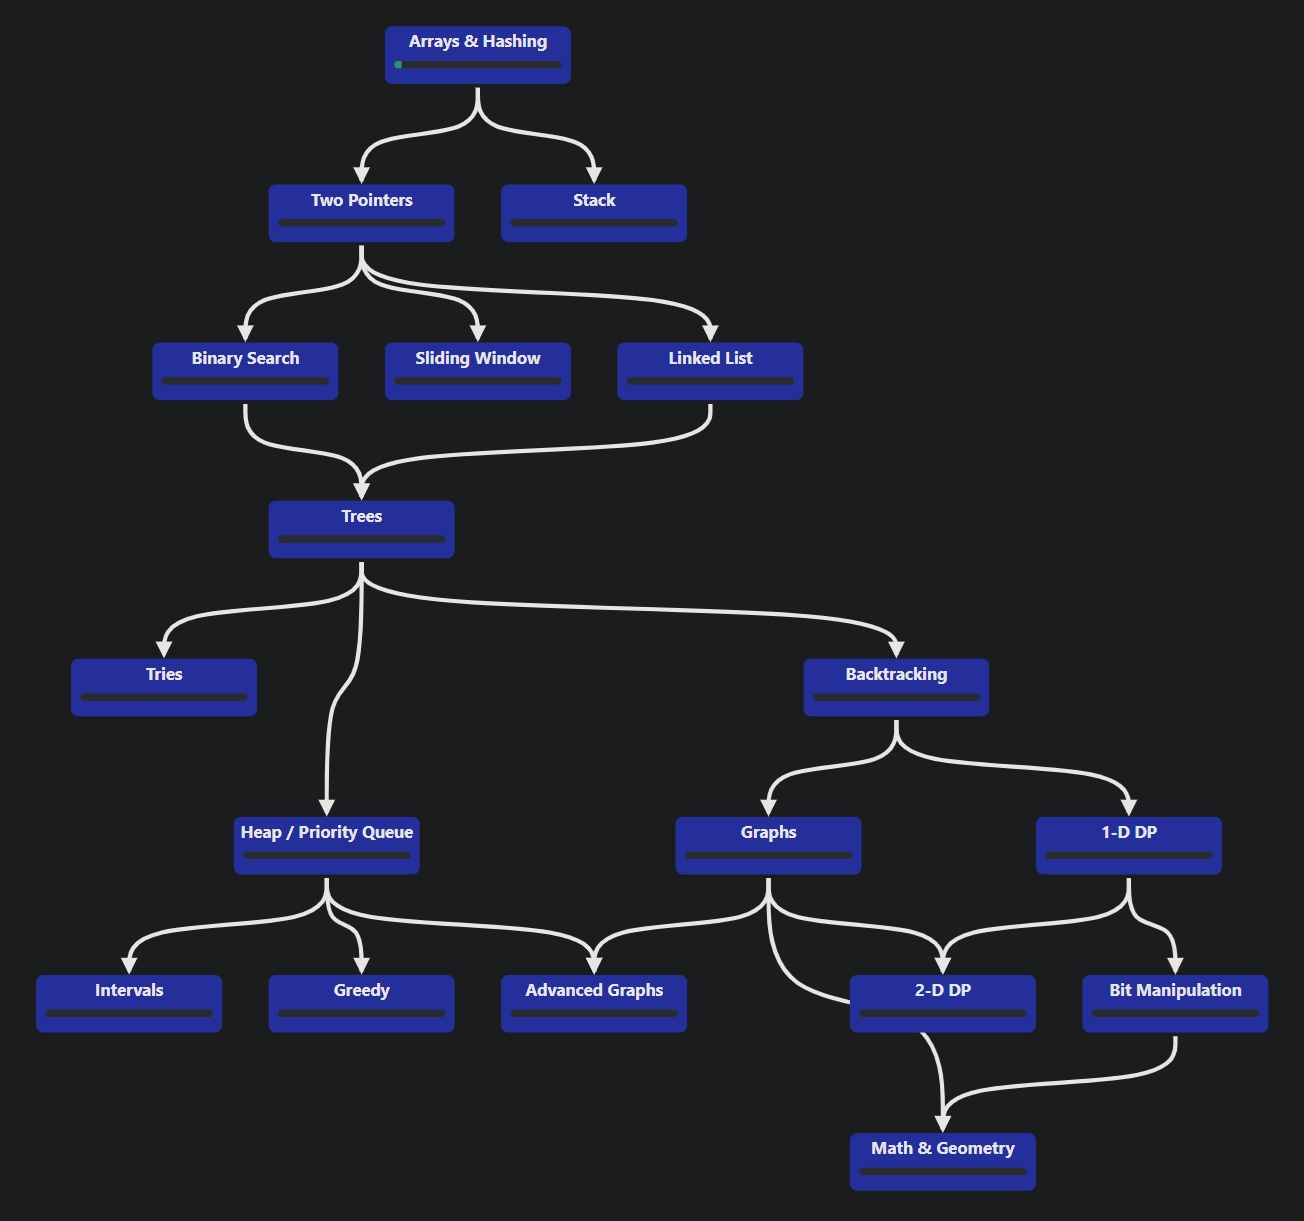
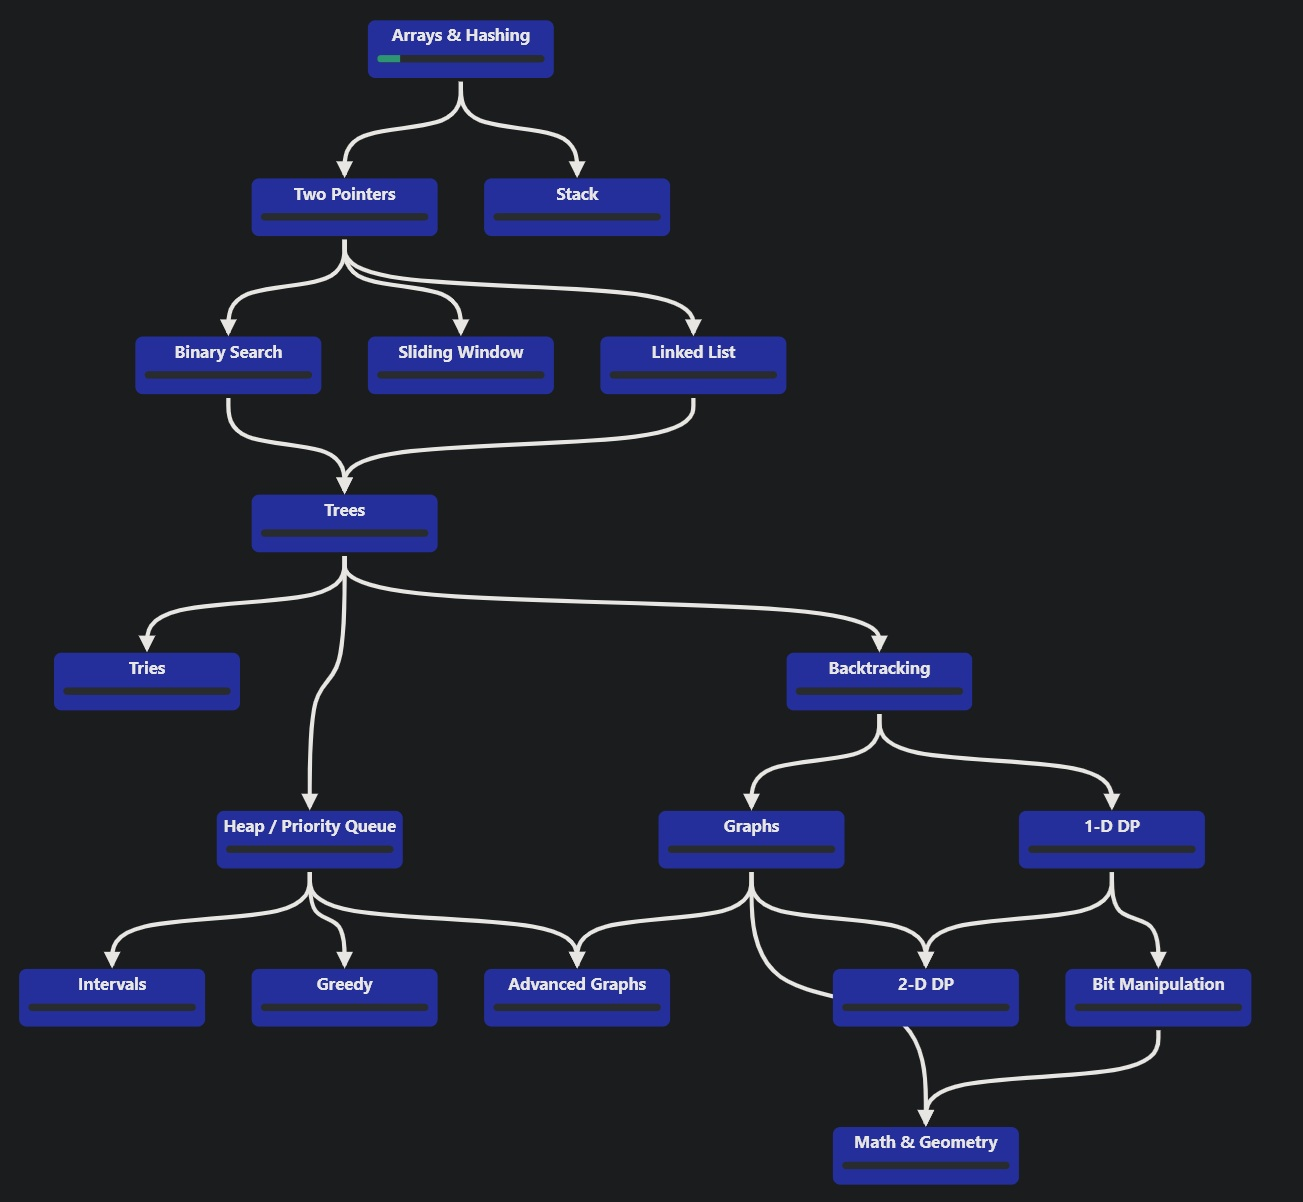
Add new solutions

diff --git a/Arrays-&-Hashing/Remove-Element.py b/Arrays-&-Hashing/Remove-Element.py
@@ -1,0 +1,18 @@
+from typing import List
+
+class Solution:
+    def removeElement(self, nums: List[int], val: int) -> int:
+
+        # We basically want to move all values to the start of the 
+        # list that are valid. To do this, we can simply use a pointer
+        # to mark the ending spot of the "validated" list. Then
+        # we simply iterate through, swapping valid nums to the pointer
+        # and incrementing, and skipping invalid. 
+
+        k = 0
+        for i in range(len(nums)):
+            if nums[i] != val: 
+                nums[k] = nums[i]
+                k += 1
+
+        return k

diff --git a/Arrays-&-Hashing/Valid-Anagram.py b/Arrays-&-Hashing/Valid-Anagram.py
@@ -1,0 +1,16 @@
+class Solution:
+    def isAnagram(self, s: str, t: str) -> bool:
+        
+        # This is can be simply done using hashmaps. Iterate
+        # through both strings and map to a count for chars, 
+        # then see if these two are equal.
+
+        sMap = {}
+        for char in s:
+            sMap[char] = sMap[char] + 1 if sMap.get(char) != None else 1
+
+        tMap = {}
+        for char in t:
+            tMap[char] = tMap[char] + 1 if tMap.get(char) != None else 1
+
+        return sMap == tMap
